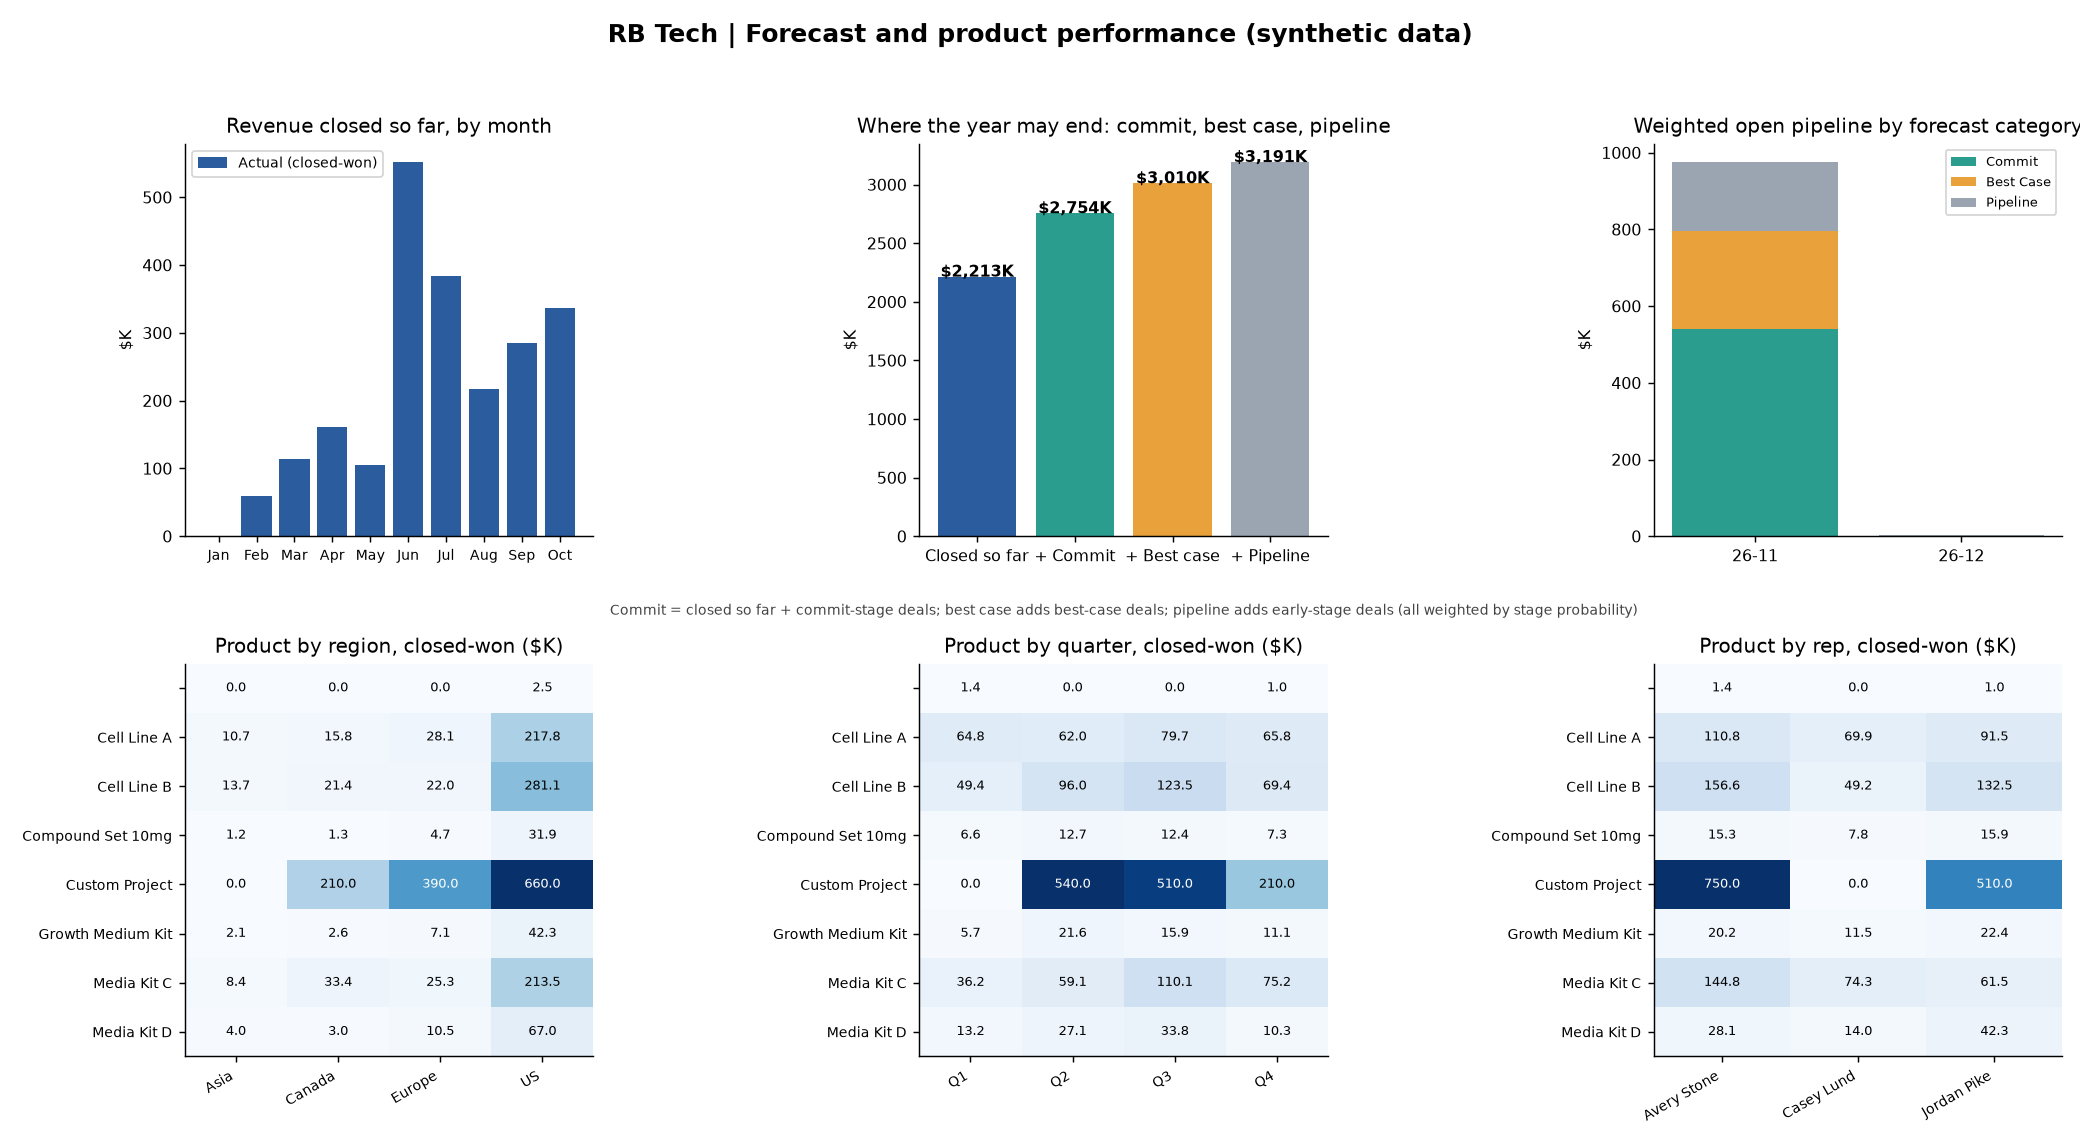
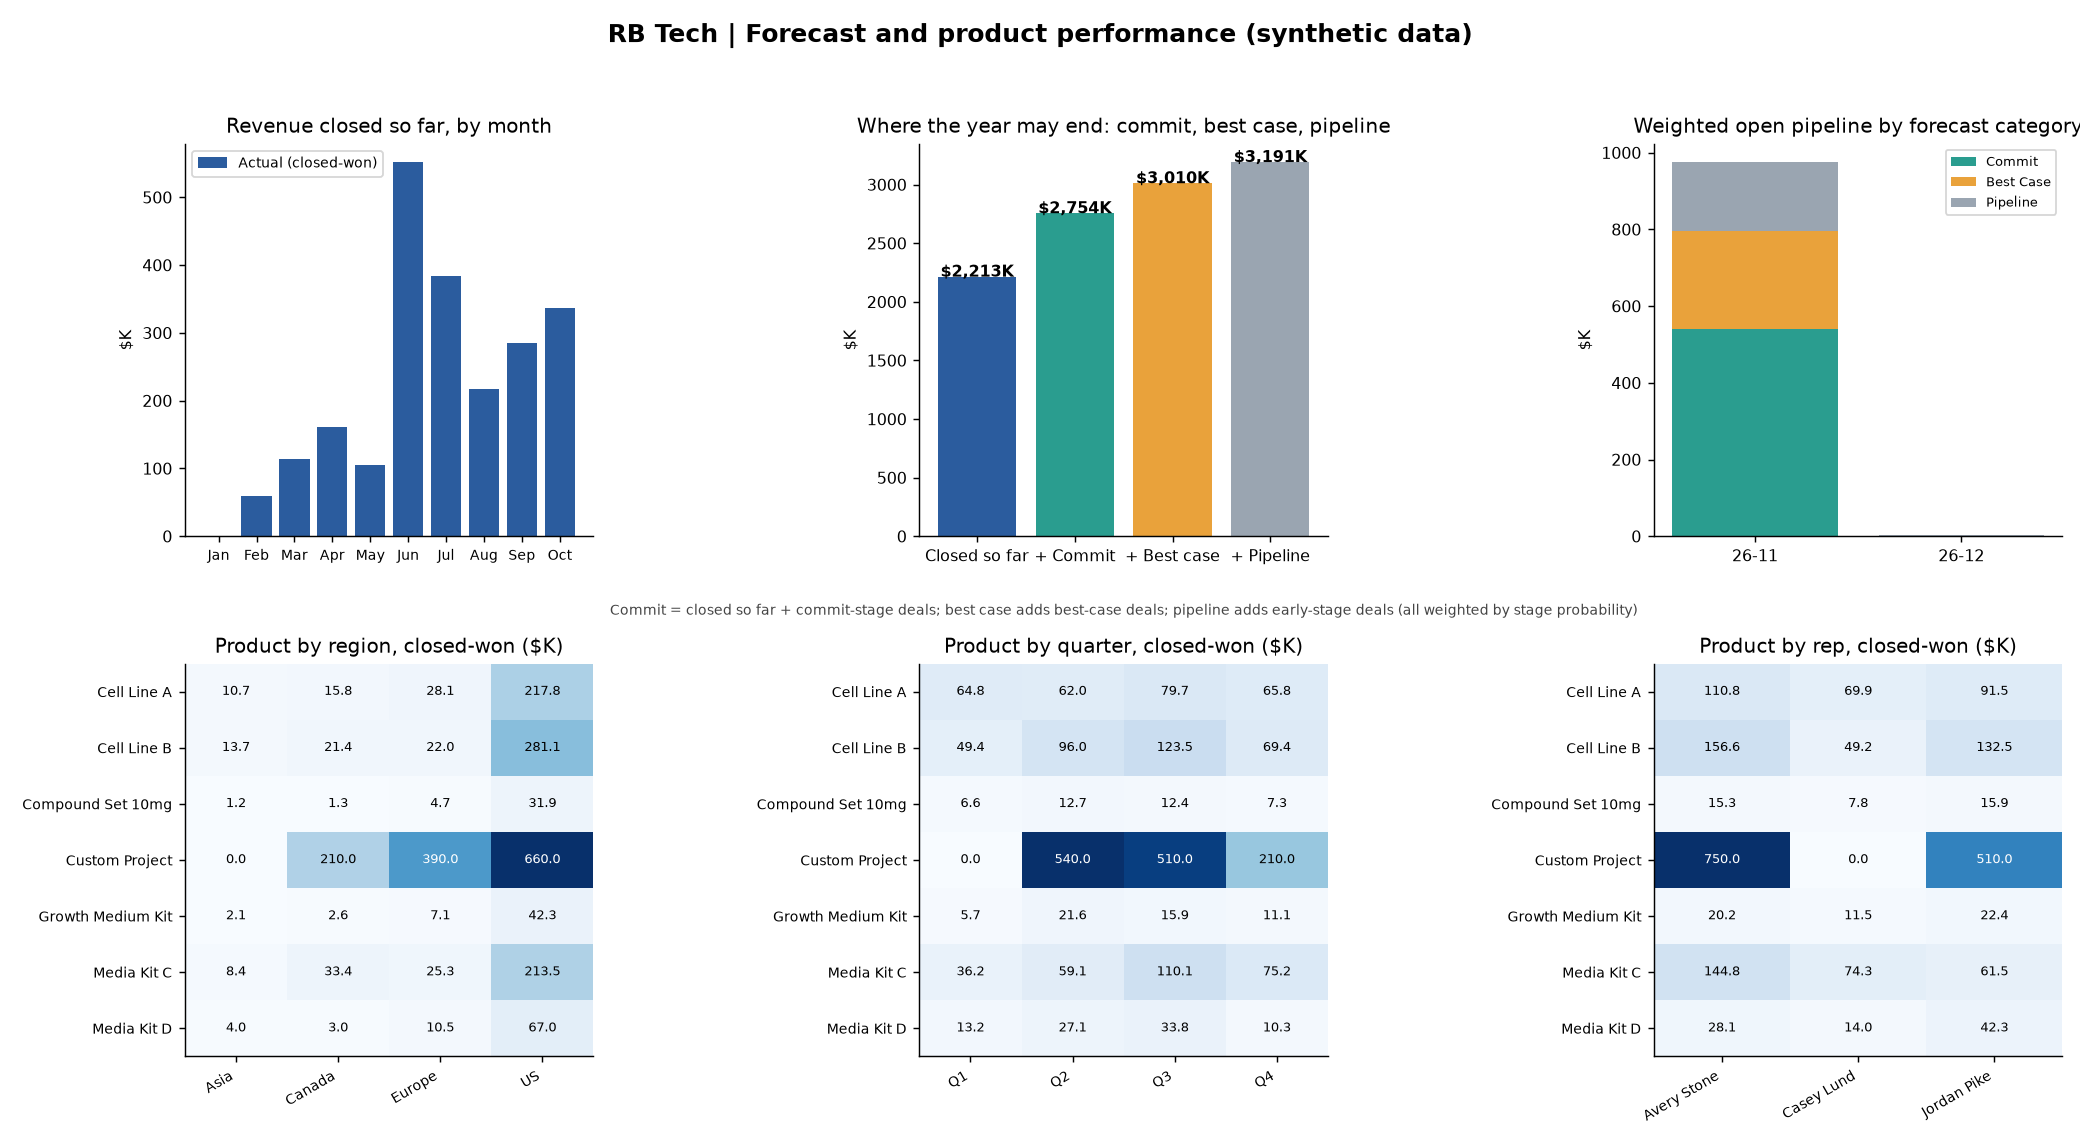
01: drop blank product row from heatmaps

diff --git a/01-sales-kpi-dashboard/scripts/generate_data.py b/01-sales-kpi-dashboard/scripts/generate_data.py
@@ -188,9 +188,10 @@ high = base * 1.35                                                              
 fc = pd.DataFrame({"low": low, "base": base, "high": high}).round(0)
 fc.to_csv(DATA / "forecast_range.csv")
 cum_actual = actual.cumsum()
-heat_region = won.pivot_table(index="product", columns="region", values="amount", aggfunc="sum", fill_value=0)
-heat_qtr = won.pivot_table(index="product", columns="close_quarter", values="amount", aggfunc="sum", fill_value=0)
-heat_rep = won.pivot_table(index="product", columns="owner", values="amount", aggfunc="sum", fill_value=0)
+won_h = won[won["product"] != ""]
+heat_region = won_h.pivot_table(index="product", columns="region", values="amount", aggfunc="sum", fill_value=0)
+heat_qtr = won_h.pivot_table(index="product", columns="close_quarter", values="amount", aggfunc="sum", fill_value=0)
+heat_rep = won_h.pivot_table(index="product", columns="owner", values="amount", aggfunc="sum", fill_value=0)
 heat_region.to_csv(DATA / "product_by_region.csv"); heat_qtr.to_csv(DATA / "product_by_quarter.csv"); heat_rep.to_csv(DATA / "product_by_rep.csv")
 
 fig2, a = plt.subplots(2, 3, figsize=(16, 8.8))
